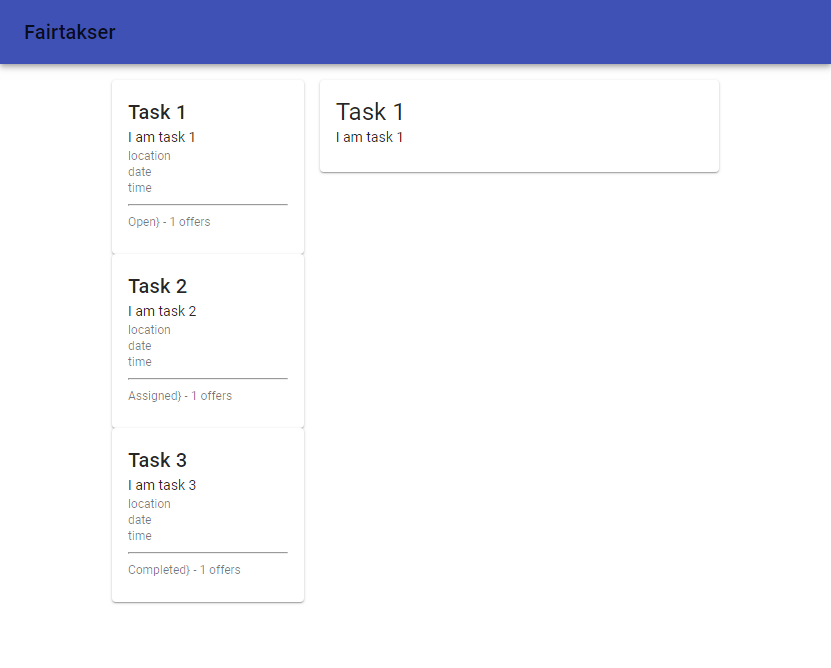
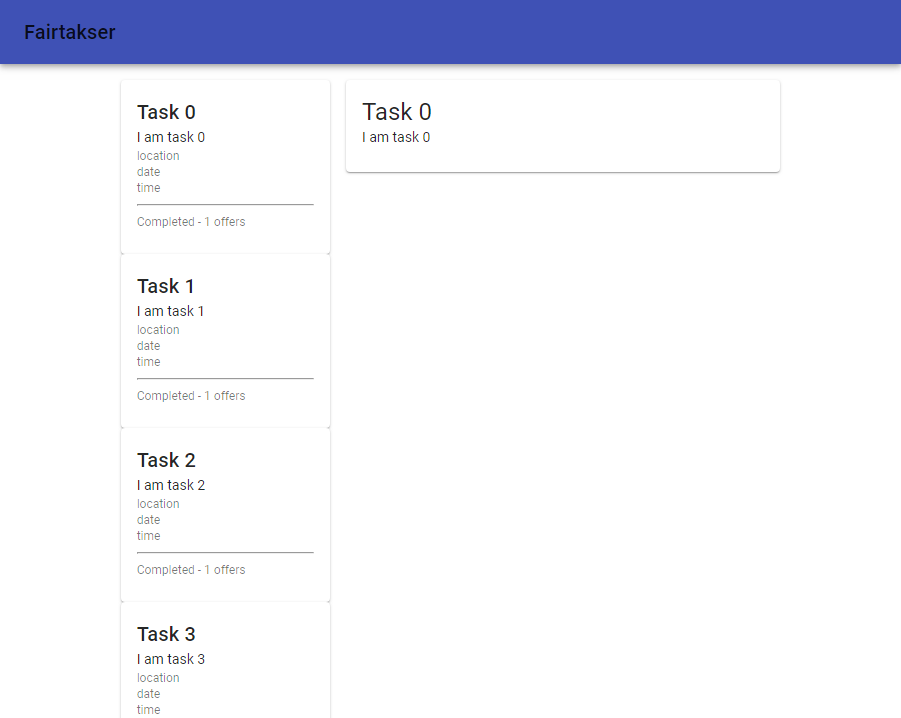
react tutorial part 1

diff --git a/_posts/2019-02-22-react-fairtasker.md b/_posts/2019-02-22-react-fairtasker.md
@@ -263,7 +263,7 @@ If we revisit our app in the browser we will see all our components looking some
 
 ![Fairtasker initial component design][fairtasker-img]{: .u-responsive-img style="margin: 0 auto;"}
 
-## Apply Material UI
+## Add Material UI
 {: .dotted .white-dots}
 
 It's great that our components are working but the layout and design has a bit of room for improvement so let's get start making use of the `material-ui` components in our components to speed up the construction of our app.
@@ -309,29 +309,16 @@ Next up is the `Tasks` container, in our `state` we will have some dummy tasks (
 import React, { Component } from 'react';
 import TasksLeft from '../../components/TasksLeft/TasksLeft';
 import TasksRight from '../../components/TasksRight/TasksRight';
-
 import Grid from '@material-ui/core/Grid'
 
 class Tasks extends Component {
     state = {
         selectedTask: false,
-        tasks: [{
-            id: '0',
-            title: 'Task 1',
-            description: "I am task 1",
-            status: "Open"
-        },
-        {
-            id: '1',
-            title: 'Task 2',
-            description: "I am task 2",
-            status: "Assigned"
-        }, {
-            id: '2',
-            title: 'Task 3',
-            description: "I am task 3",
-            status: "Completed"
-        }]
+        tasks: Array(8).fill(0).map( (_, i) => ({
+            id: '' + i,
+            title: `Task ${i}`,
+            description: `I am task ${i}`,
+            status: "Completed" }))
     }
 
     render() { 
@@ -344,13 +331,15 @@ class Tasks extends Component {
         }
 
         return ( <Grid container spacing={16} justify="center">
-                        <TasksLeft tasks={tasks} />
-                        <TasksRight task={selectedTask} />
-                 </Grid> );
+                    <TasksLeft tasks={tasks} />
+                    <TasksRight task={selectedTask} />
+                </Grid>);
     }}
  
 export default Tasks;
 ~~~
+
+The task id is turned into a string to used as the key when the array of `TaskCards` is created in `TasksLeft`.
 
 Just to show the switching of the `TasksMap` and `TaskDetails` components when there is a selected task I have put the following snippet into `render()`:
 
@@ -364,7 +353,7 @@ if(!selectedTask){
 
 On the first render of `TasksRight` we will see `TasksMap` and set a timer for 3 seconds after which `selectedTask` is set to the first of our `tasks` and `TasksMap` changes to `TaskDetails`.
 
-For `TasksLeft` we need to replace `Array.fill()` with a mapping of tasks from `props.tasks` to `TaskCards's` and pass in the `task`.
+For `TasksLeft` we need to replace `Array.fill()` with a mapping of tasks from `props.tasks` to `TaskCards` and pass in the `task`.
 
 ~~~
 // ./components/TasksLeft/TasksLeft.js
@@ -382,7 +371,7 @@ const TasksLeft = ({ tasks }) => {
 export default TasksLeft;
 ~~~
 
-For `TaskCard's` we will use a `Card` component and output the task information along with some static placeholder information to match the Airtasker task cards.
+For `TaskCards` we will use a `Card` component and output the task information along with some static placeholder information to match the Airtasker task cards.
 
 ~~~
 // ./components/Tasksleft/TaskCard/TaskCard.js
@@ -413,7 +402,7 @@ const TaskCard = ({ task }) => {
             </Typography>
             <hr />
             <Typography variant="caption">
-                {task.status}} - 1 offers
+                {task.status} - 1 offers
             </Typography>
         </CardContent>
     </Card> );
@@ -434,7 +423,7 @@ import Grid from '@material-ui/core/Grid'
 
 const TasksRight = ({ task }) => {
     
-    return (<Grid item xs={6}>
+    return (<Grid item xs={4}>
         { task ? <TaskDetails task={task} /> : <TasksMap /> }
     </Grid> );
 }
@@ -498,10 +487,15 @@ With all the components updated to include `material-ui` components, if we now v
 
 [![Fairtasker initial material ui design][fairtasker-final-img]{: .u-responsive-img}][fairtasker-final-img]
 
-## Conclusion
+## The End
 {: .dotted .white-dots}
 
-Phew! We have done quite a bit and our app is starting to take shape. We still have some minor CSS additions to make to bring the design more in line with Airtasker, like adding a colored side to our `TaskCard` depending on the task status and adding come 
+Phew! That was a lot of typing (for me at least). We have done a good amount of work and our app is starting to take shape. We still have some minor CSS additions to make to bring the design more in line with Airtasker, like adding a coloured side and spacing around the `TaskCards` and adding a backgound colour to the page so the cards standout. When the screen starts to get smaller `TasksLeft` begins to get squished so we will need some minimum widths to prevent that and instead of the whole page being scrollable when we have a lot of `TaskCards` we will make the `TasksLeft` and `TasksRight` independently scrollable. 
+
+In regards to functionality we have a couple of things to do, we don't want to rely on the timer to select a task for us so we will use `react-router-dom` to enable us to click on a `TaskCard` and be shown the details in `TaskDetails`. When it comes to smaller screens it is impractical to show both `TasksLeft` and `TasksRight` so we will use `react-responsive` to show only one at a time.
+
+Now that we know the CSS and functionality additions that need to be made be sure to tune in next time as I walk you through how we do that.
+
 
 [tasks]:https://www.airtasker.com/tasks/
 [material-ui]:https://material-ui.com
